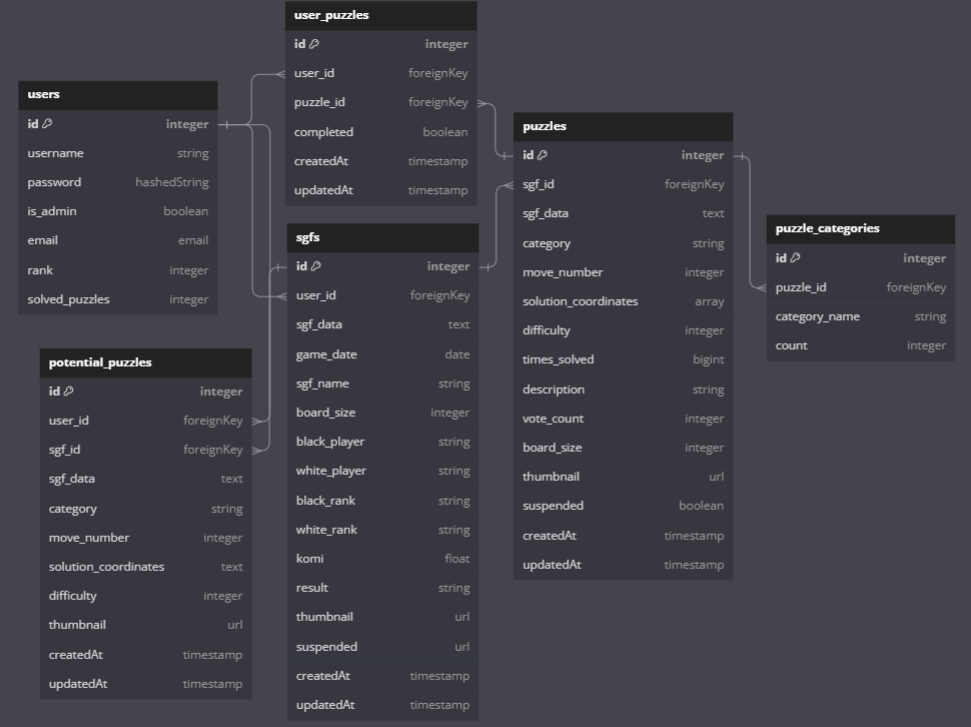
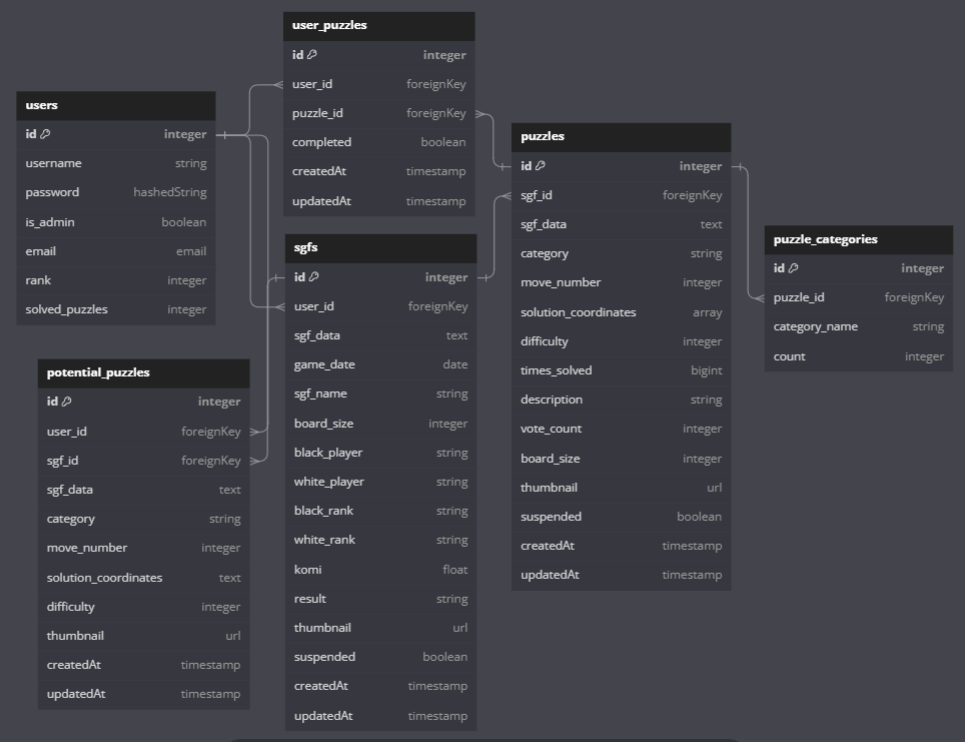
fixed one line json script to look for valid rule property for katago ai, moved around some of the learn and practice pages and added the correct db schema

diff --git a/frontend/src/components/LearnAndPractice/BasicRulesPage6.js b/frontend/src/components/LearnAndPractice/BasicRulesPage6.js
@@ -1,0 +1,82 @@
+import React, { useEffect, useRef} from "react";
+
+import "../../lib/glift";
+
+/* global glift */ // For informing ESLint that glift is a global object, otherwise it gets mad, real mad, even though everything still works once we close the giant red screen
+
+const BasicRulesPage6 = () => {
+
+  const gliftInstance = useRef(null);
+
+  useEffect(() => {
+    // if (potentialPuzzlesData) {
+      const sgfCollection = [{
+        sgfString: "(;GM[1]FF[4]CA[UTF-8]AP[Glift]ST[2]\n" +
+        "RU[Japanese]SZ[19]KM[0.00]\n" +
+        "C[Black to play. There aren't many options " +
+        "to choose from, but you might be surprised at the answer!]" +
+        "PW[White]PB[Black]AW[pa][qa][nb][ob][qb][oc][pc][md][pd][ne][oe]\n" +
+        "AB[na][ra][mb][rb][lc][qc][ld][od][qd][le][pe][qe][mf][nf][of][pg]\n" +
+        "(;B[mc]\n" +
+          ";W[nc]C[White lives.])\n" +
+        "(;B[ma]\n" +
+          "(;W[oa]\n" +
+            ";B[nc]\n" +
+            ";W[nd]\n" +
+            ";B[mc]C[White dies.]GB[1])\n" +
+          "(;W[mc]\n" +
+            "(;B[oa]\n" +
+            ";W[nd]\n" +
+            ";B[pb]C[White lives])\n" +
+            "(;B[nd]\n" +
+              ";W[nc]\n" +
+              ";B[oa]C[White dies.]GB[1]))\n" +
+          "(;W[nd]\n" +
+            ";B[mc]\n" +
+            ";W[oa]\n" +
+            ";B[nc]C[White dies.]GB[1]))\n" +
+        "(;B[nc]\n" +
+          ";W[mc]C[White lives])\n" +
+        "(;B[]C[A default consideration]\n" +
+          ";W[mc]C[White lives easily]))",
+        // initialPosition: '', // ******* THIS AUTO PLAYS THE NEXT MOVE IN THE SGF if we play the sgf move?!?!?!?
+        // // initialPosition: puzzle.move_number - 1,
+        problemConditions: { GB: [] },
+        widgetType: "STANDARD_PROBLEM",
+      }];
+
+      const instance = glift.create({
+        sgfCollection,
+        divId: "gliftContainer",
+        display: {
+          drawBoardCoords: true,
+          disableZoomForMobile: true,
+        },
+      });
+
+      gliftInstance.current = instance;
+
+      return () => {
+        instance.destroy();
+        // Restore Glift's default behavior upon unmounting
+        // glift.api.iconActionDefaults["chevron-right"].click = defaultNextSgf;
+        // glift.api.iconActionDefaults["chevron-left"].click = defaultPrevSgf;
+      };
+    // }
+  }, []);
+
+  return (
+    <div className="tutorial-puzzle-page">
+      <h2>Basic Rules: Capturing Stones</h2>
+      <p>To capture a stone, you must take away all of the stone(s) liberties</p>
+      <p>A liberty is any straight line coming off of the stone(s)</p>
+      <p>How would we capture the following stone?</p>
+
+      <div className="glift-wrapper">
+      <div id="gliftContainer"></div>
+      </div>
+    </div>
+  );
+};
+
+export default BasicRulesPage6;

diff --git a/frontend/src/components/LearnAndPractice/BasicRulesPage5.js b/frontend/src/components/LearnAndPractice/BasicRulesPage5.js
@@ -6,71 +6,13 @@ import "../../lib/glift";
 
 const BasicRulesPage5 = () => {
 
-  const gliftInstance = useRef(null);
-
-  useEffect(() => {
-    // if (potentialPuzzlesData) {
-      const sgfCollection = [{
-        sgfString: "(;GM[1]FF[4]CA[UTF-8]AP[Glift]ST[2]\n" +
-        "RU[Japanese]SZ[19]KM[0.00]\n" +
-        "C[Black to play. There aren't many options " +
-        "to choose from, but you might be surprised at the answer!]" +
-        "PW[White]PB[Black]AW[pa][qa][nb][ob][qb][oc][pc][md][pd][ne][oe]\n" +
-        "AB[na][ra][mb][rb][lc][qc][ld][od][qd][le][pe][qe][mf][nf][of][pg]\n" +
-        "(;B[mc]\n" +
-          ";W[nc]C[White lives.])\n" +
-        "(;B[ma]\n" +
-          "(;W[oa]\n" +
-            ";B[nc]\n" +
-            ";W[nd]\n" +
-            ";B[mc]C[White dies.]GB[1])\n" +
-          "(;W[mc]\n" +
-            "(;B[oa]\n" +
-            ";W[nd]\n" +
-            ";B[pb]C[White lives])\n" +
-            "(;B[nd]\n" +
-              ";W[nc]\n" +
-              ";B[oa]C[White dies.]GB[1]))\n" +
-          "(;W[nd]\n" +
-            ";B[mc]\n" +
-            ";W[oa]\n" +
-            ";B[nc]C[White dies.]GB[1]))\n" +
-        "(;B[nc]\n" +
-          ";W[mc]C[White lives])\n" +
-        "(;B[]C[A default consideration]\n" +
-          ";W[mc]C[White lives easily]))",
-        // initialPosition: '', // ******* THIS AUTO PLAYS THE NEXT MOVE IN THE SGF if we play the sgf move?!?!?!?
-        // // initialPosition: puzzle.move_number - 1,
-        problemConditions: { GB: [] },
-        widgetType: "STANDARD_PROBLEM",
-      }];
-
-      const instance = glift.create({
-        sgfCollection,
-        divId: "gliftContainer",
-        display: {
-          drawBoardCoords: true,
-          disableZoomForMobile: true,
-        },
-      });
-
-      gliftInstance.current = instance;
-
-      return () => {
-        instance.destroy();
-        // Restore Glift's default behavior upon unmounting
-        // glift.api.iconActionDefaults["chevron-right"].click = defaultNextSgf;
-        // glift.api.iconActionDefaults["chevron-left"].click = defaultPrevSgf;
-      };
-    // }
-  }, []);
 
   return (
-    <div className="tutorial-puzzle-page">
-      <h2>Basic Rules: Capturing Stones</h2>
-      <p>To capture a stone, you must take away all of the stone(s) liberties</p>
+    <div className="main-content">
+      <h2>Basic Rules: Counting Liberties and Capturing Stones</h2>
       <p>A liberty is any straight line coming off of the stone(s)</p>
-      <p>How would we capture the following stone?</p>
+      <p>To capture a stone, you must take away all of the stone(s) liberties</p>
+      <p>See the diagrams to see how we capture stones</p>
 
       <div className="glift-wrapper">
       <div id="gliftContainer"></div>

diff --git a/frontend/src/components/LearnAndPractice/BasicRulesPage3.js b/frontend/src/components/LearnAndPractice/BasicRulesPage3.js
@@ -1,15 +1,25 @@
 import React from "react";
 
 const BasicRulesPage3 = () => {
-
   return (
     <div className="tutorial-puzzle-page">
       <h2>Basic Rules: Placing Stones & Surrounding Territory 3</h2>
-      <p>Who won the game below and by how much?</p>
-      <p>*** For later: you may be wondering why black or white can't just invade
-        the opponent's territory.  That's an excellent thought, and we will explore that
-        later in the game end condition and two eyes section
+      <p>Who won the game below and by how much? 🤔</p>
+      <p>
+        If you are stuck, please refer to the previous pages. When you are
+        ready, please go to the next page where we discuss the answer!
       </p>
+      <p>
+        You may be wondering why black or white can't just invade the opponent's
+        territory. We will explore that later, but for now let's focus on
+        learning from these simpler examples.
+      </p>
+      {/* <div className="image-text-wrap"> */}
+      <img
+        src="/learn-and-practice-images/basic-rules-5.png"
+        alt="basic-rules-5"
+      />
+      {/* </div> */}
     </div>
   );
 };

diff --git a/frontend/src/components/LearnAndPractice/BasicRulesPage4.js b/frontend/src/components/LearnAndPractice/BasicRulesPage4.js
@@ -8,15 +8,14 @@ const BasicRulesPage4 = () => {
 
 
   return (
-    <div className="main-content">
-      <h2>Basic Rules: Counting Liberties and Capturing Stones</h2>
-      <p>A liberty is any straight line coming off of the stone(s)</p>
-      <p>To capture a stone, you must take away all of the stone(s) liberties</p>
-      <p>See the diagrams to see how we capture stones</p>
+    <div className="tutorial-puzzle-page">
+      <h2>Basic Rules: Placing Stones & Surrounding Territory 4</h2>
+      <p>If you said that it's a tie, great job! Both players have 29 points</p>
+      <img
+        src="/learn-and-practice-images/basic-rules-6.png"
+        alt="basic-rules-6"
+      />
 
-      <div className="glift-wrapper">
-      <div id="gliftContainer"></div>
-      </div>
     </div>
   );
 };

diff --git a/frontend/src/components/LearnAndPractice/LearnAndPracticeBasicRules.js b/frontend/src/components/LearnAndPractice/LearnAndPracticeBasicRules.js
@@ -7,6 +7,7 @@ import BasicRulesPage2 from "./BasicRulesPage2";
 import BasicRulesPage3 from "./BasicRulesPage3";
 import BasicRulesPage4 from "./BasicRulesPage4";
 import BasicRulesPage5 from "./BasicRulesPage5";
+import BasicRulesPage6 from "./BasicRulesPage6";
 
 const LearnAndPracticeBasicRules = () => {
   const history = useHistory();
@@ -44,6 +45,7 @@ const LearnAndPracticeBasicRules = () => {
         pageNumber === '3' ? <BasicRulesPage3 /> :
         pageNumber === '4' ? <BasicRulesPage4 /> :
         pageNumber === '5' ? <BasicRulesPage5 /> :
+        pageNumber === '6' ? <BasicRulesPage6 /> :
         <div>Page not found</div>
       }
       <button onClick={navigateToNextPage} className="next-page-button">

diff --git a/frontend/src/store/potentialPuzzles.js b/frontend/src/store/potentialPuzzles.js
@@ -84,7 +84,7 @@ export const generatePotentialPuzzlesThunk =
     const data = await response.json();
     dispatch(generatePotentialPuzzles(data));
 
-    // ******* Manually change below boolean to use production external VM, or test locally with computer's CPU ******* //
+    // ******* Manually change below boolean to true to use production external VM, or test locally with computer's CPU ******* //
     const useExternalVM = false;
     const VM_ENDPOINT = useExternalVM
       ? "https://vm.go-puzzles.com/potential_puzzles/generate"

diff --git a/frontend/src/components/LearnAndPractice/styles/LearnAndPracticeIndex.css b/frontend/src/components/LearnAndPractice/styles/LearnAndPracticeIndex.css
@@ -164,3 +164,10 @@
 .tutorial-puzzle-page h2 {
   color: rgb(255, 204, 102);
 }
+
+.tutorial-puzzle-page img {
+  height: 100%;
+  max-width: auto;
+  padding-top: 10px;
+  padding-bottom: 10px;
+}

diff --git a/katago/sgf_to_oneLineJson_all_moves.py b/katago/sgf_to_oneLineJson_all_moves.py
@@ -19,11 +19,13 @@ def sgf_to_one_line_json(sgf_data):
         print("Invalid SGF, size of board unknown!")
 
     komi = root_node.get('KM') if root_node.has_property('KM') else 6.5
-    # Since rules are required to feed into KataGo, we will default it to japanese if we can't find the rule property in the sgf
-    rules = root_node.get('RU').lower(
-    ) if root_node.has_property('RU') else "japanese"
+
+    # Since rules are required to feed into KataGo, we will default it to japanese if we can't find a valid rule property in the sgf
+    valid_rules = ["tromp-taylor", "chinese", "chinese-ogs", "chinese-kgs", "japanese", "korean", "stone-scoring", "aga", "bga", "new-zealand", "aga-button"]
+    rules = root_node.get('RU').lower() if (root_node.has_property('RU') and root_node.get('RU').lower() in valid_rules) else "japanese"
+
     # Need to make sure that if there's no AB or AW property (like in an even game) that there's no error
-    # *** This must be converting the stones into integer coordinates instead of using sgf letter coordinates
+    # *** This is converting the stones into integer coordinates instead of using sgf letter coordinates
     black_stones = root_node.get(
         'AB') if root_node.has_property('AB') else None
     white_stones = root_node.get(
